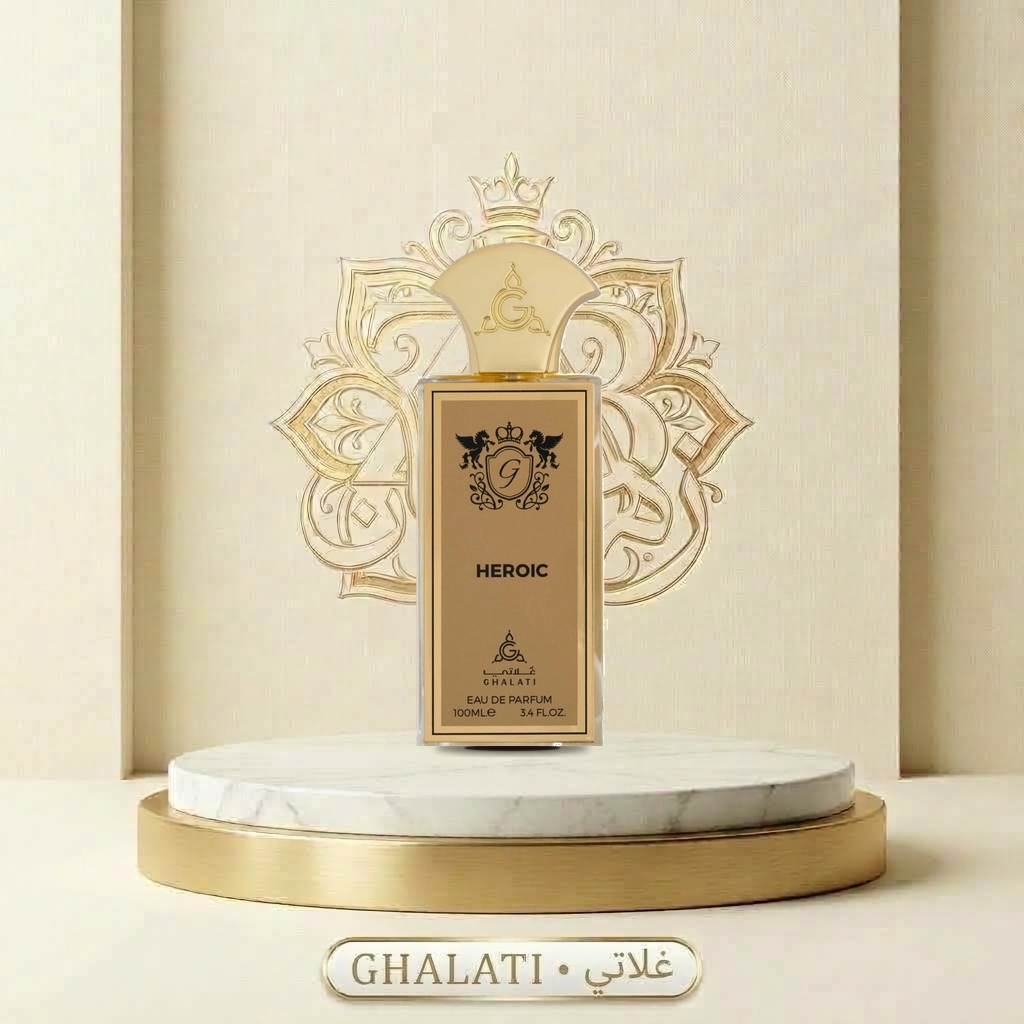
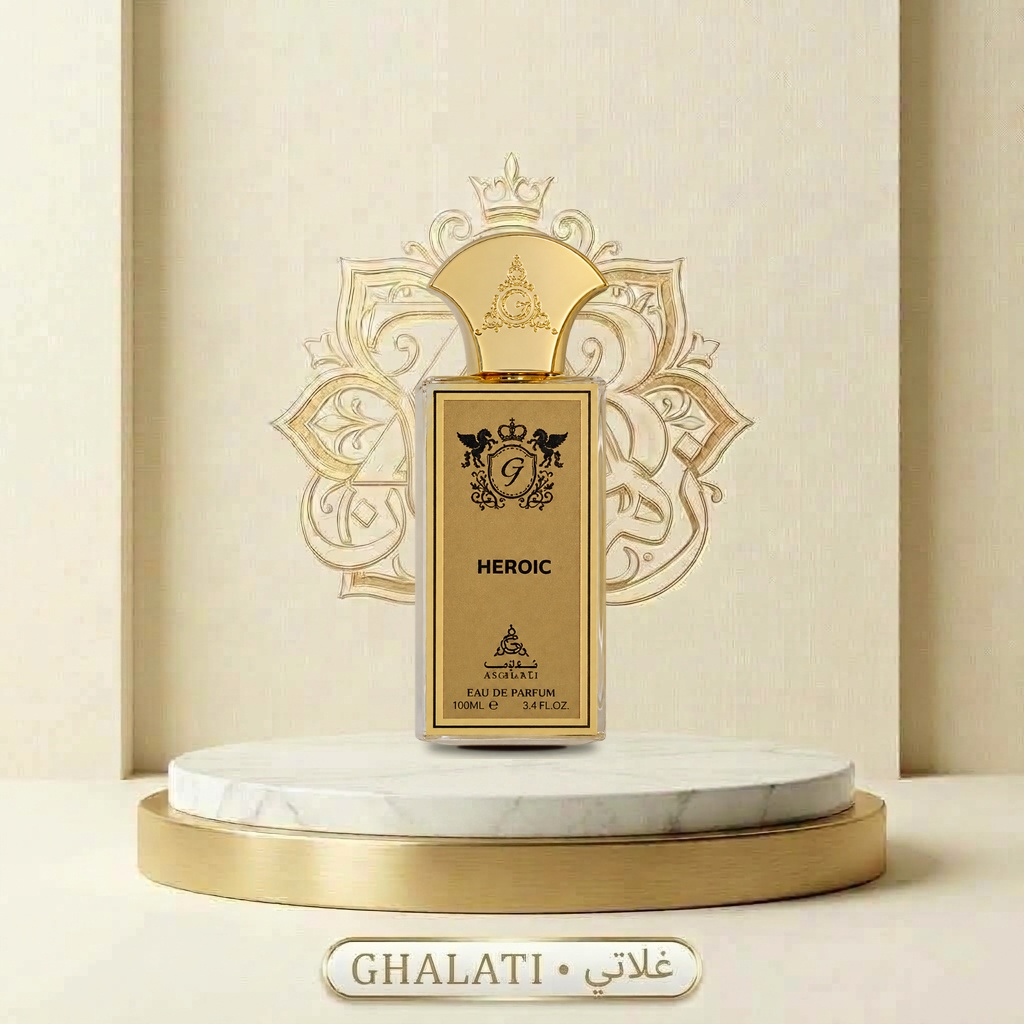
feat: upgrade Heroic with master transparent flacon, ultra-sharp marble podium showcase, and local Fragrantica card

Changed region(s): [[0.4062, 0.2188, 0.5938, 0.75], [0.4688, 0.5312, 0.5312, 0.5625]]

diff --git a/scripts/build_heroic.js b/scripts/build_heroic.js
@@ -1,0 +1,69 @@
+const sharp = require('sharp');
+const fs = require('fs');
+
+async function processHeroic() {
+  const inputPng = 'C:/Users/ECC/.gemini/antigravity/brain/cae38557-fc4c-4ef1-b1c0-cb4370487592/.user_uploaded/media_1791370775267.png';
+  
+  // 1. Trim transparent borders
+  const trimmed = await sharp(inputPng)
+    .trim()
+    .toBuffer({ resolveWithObject: true });
+
+  fs.writeFileSync('public/images/original_heroic.png', trimmed.data);
+  console.log('Saved trimmed original_heroic.png, size:', trimmed.info.width, 'x', trimmed.info.height);
+
+  // 2. Resize for podium composite (height 515)
+  const targetH = 515;
+  const resized = await sharp(trimmed.data)
+    .resize({ height: targetH, kernel: 'lanczos3' })
+    .toBuffer({ resolveWithObject: true });
+
+  const bW = resized.info.width;
+  const bH = resized.info.height;
+  const left = Math.round((1024 - bW) / 2);
+  const baseContactY = 746;
+  const top = baseContactY - bH;
+
+  const shadowW = bW + 60;
+  const shadowH = 30;
+  const shadowSvg = `
+  <svg width="${shadowW}" height="${shadowH}" xmlns="http://www.w3.org/2000/svg">
+    <defs>
+      <filter id="f1" x="-20%" y="-20%" width="140%" height="140%">
+        <feGaussianBlur stdDeviation="4.0" />
+      </filter>
+      <filter id="f2" x="-20%" y="-20%" width="140%" height="140%">
+        <feGaussianBlur stdDeviation="1.5" />
+      </filter>
+    </defs>
+    <ellipse cx="${shadowW / 2}" cy="15" rx="${bW * 0.44}" ry="8" fill="#1b1209" opacity="0.65" filter="url(#f1)" />
+    <ellipse cx="${shadowW / 2}" cy="15" rx="${bW * 0.28}" ry="4" fill="#080503" opacity="0.9" filter="url(#f2)" />
+  </svg>
+  `;
+  const shadowBuf = await sharp(Buffer.from(shadowSvg)).png().toBuffer();
+
+  const masterBg = 'public/images/ghalati_master_bg.jpg';
+  await sharp(masterBg)
+    .composite([
+      { input: shadowBuf, left: Math.round(left - 30), top: baseContactY - 14 },
+      { input: resized.data, left: left, top: top }
+    ])
+    .jpeg({ quality: 95 })
+    .toFile('public/images/ghalati_heroic.jpg');
+
+  console.log('Successfully composited and saved public/images/ghalati_heroic.jpg');
+
+  // 3. Update perfumes.json
+  const perfumes = JSON.parse(fs.readFileSync('public/data/perfumes.json', 'utf8'));
+  const pHeroic = perfumes.find(p => p.id === 'heroic');
+  if (pHeroic) {
+    pHeroic.image = 'images/ghalati_heroic.jpg';
+    pHeroic.originalImage = 'images/original_heroic.png';
+    pHeroic.boxImage = 'images/box_heroic.png';
+    pHeroic.fragranticaCard = 'images/card_heroic.jpg';
+  }
+  fs.writeFileSync('public/data/perfumes.json', JSON.stringify(perfumes, null, 2), 'utf8');
+  console.log('Updated perfumes.json for heroic');
+}
+
+processHeroic().catch(err => console.error(err));
